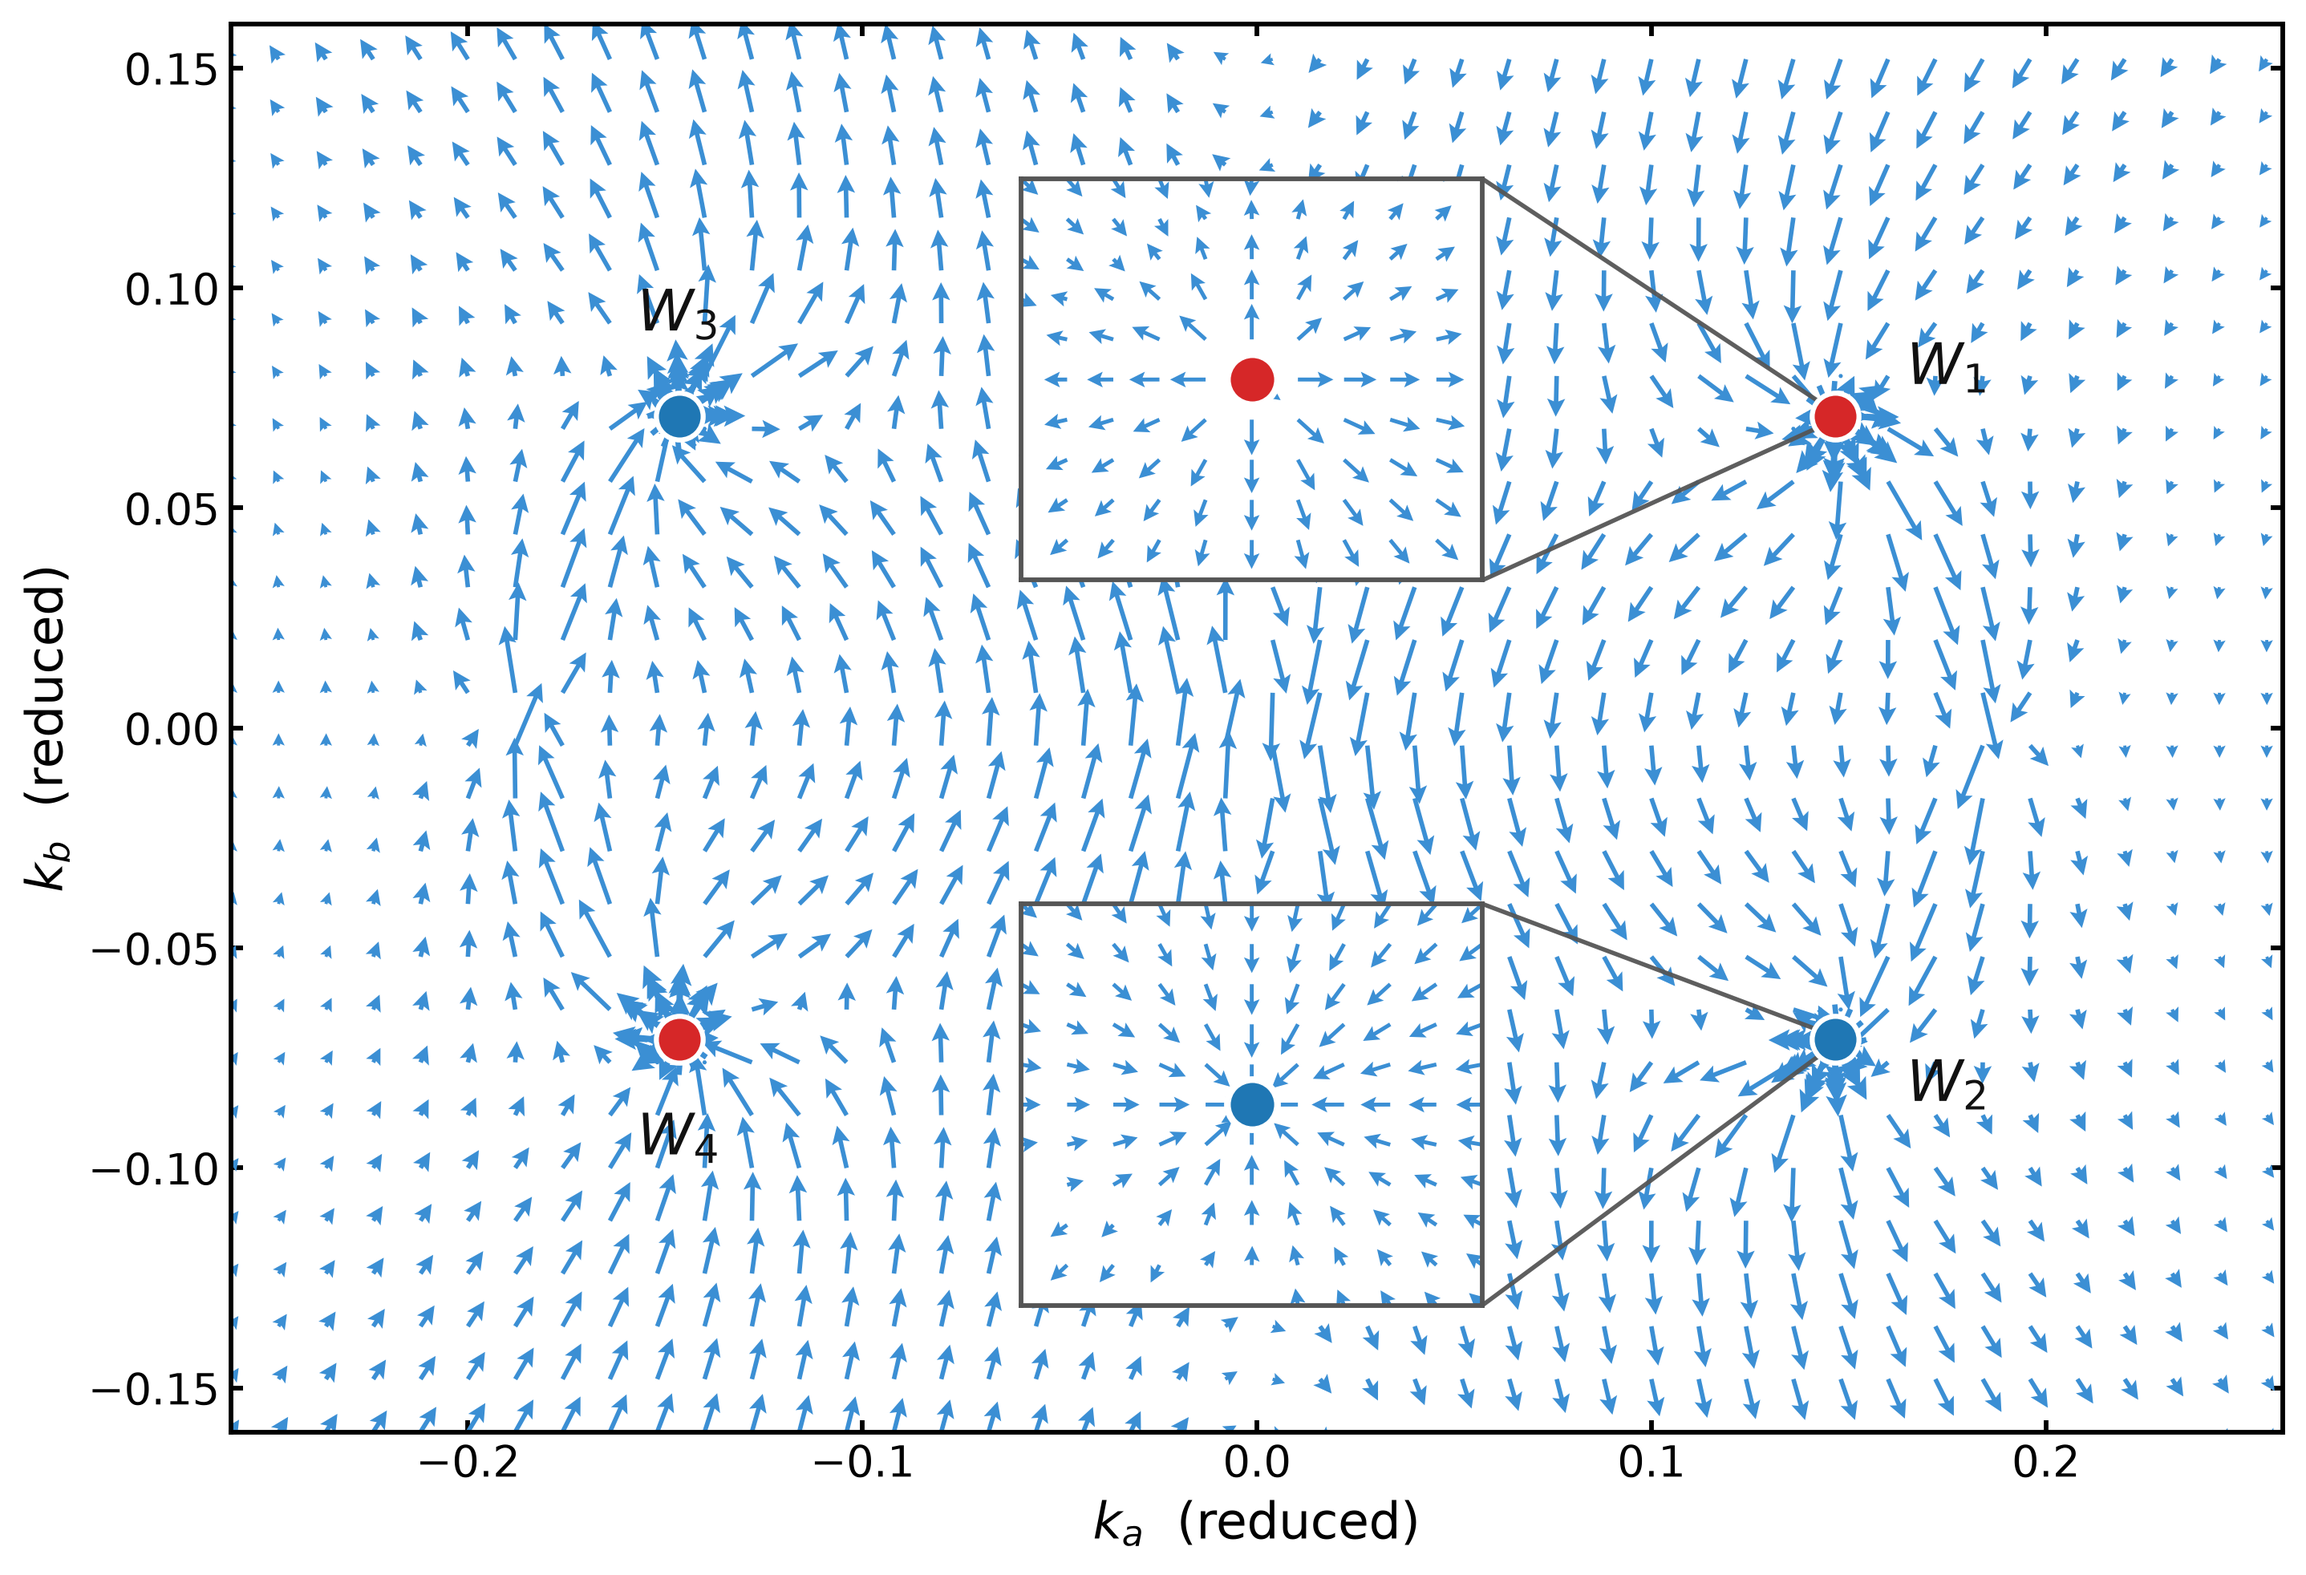
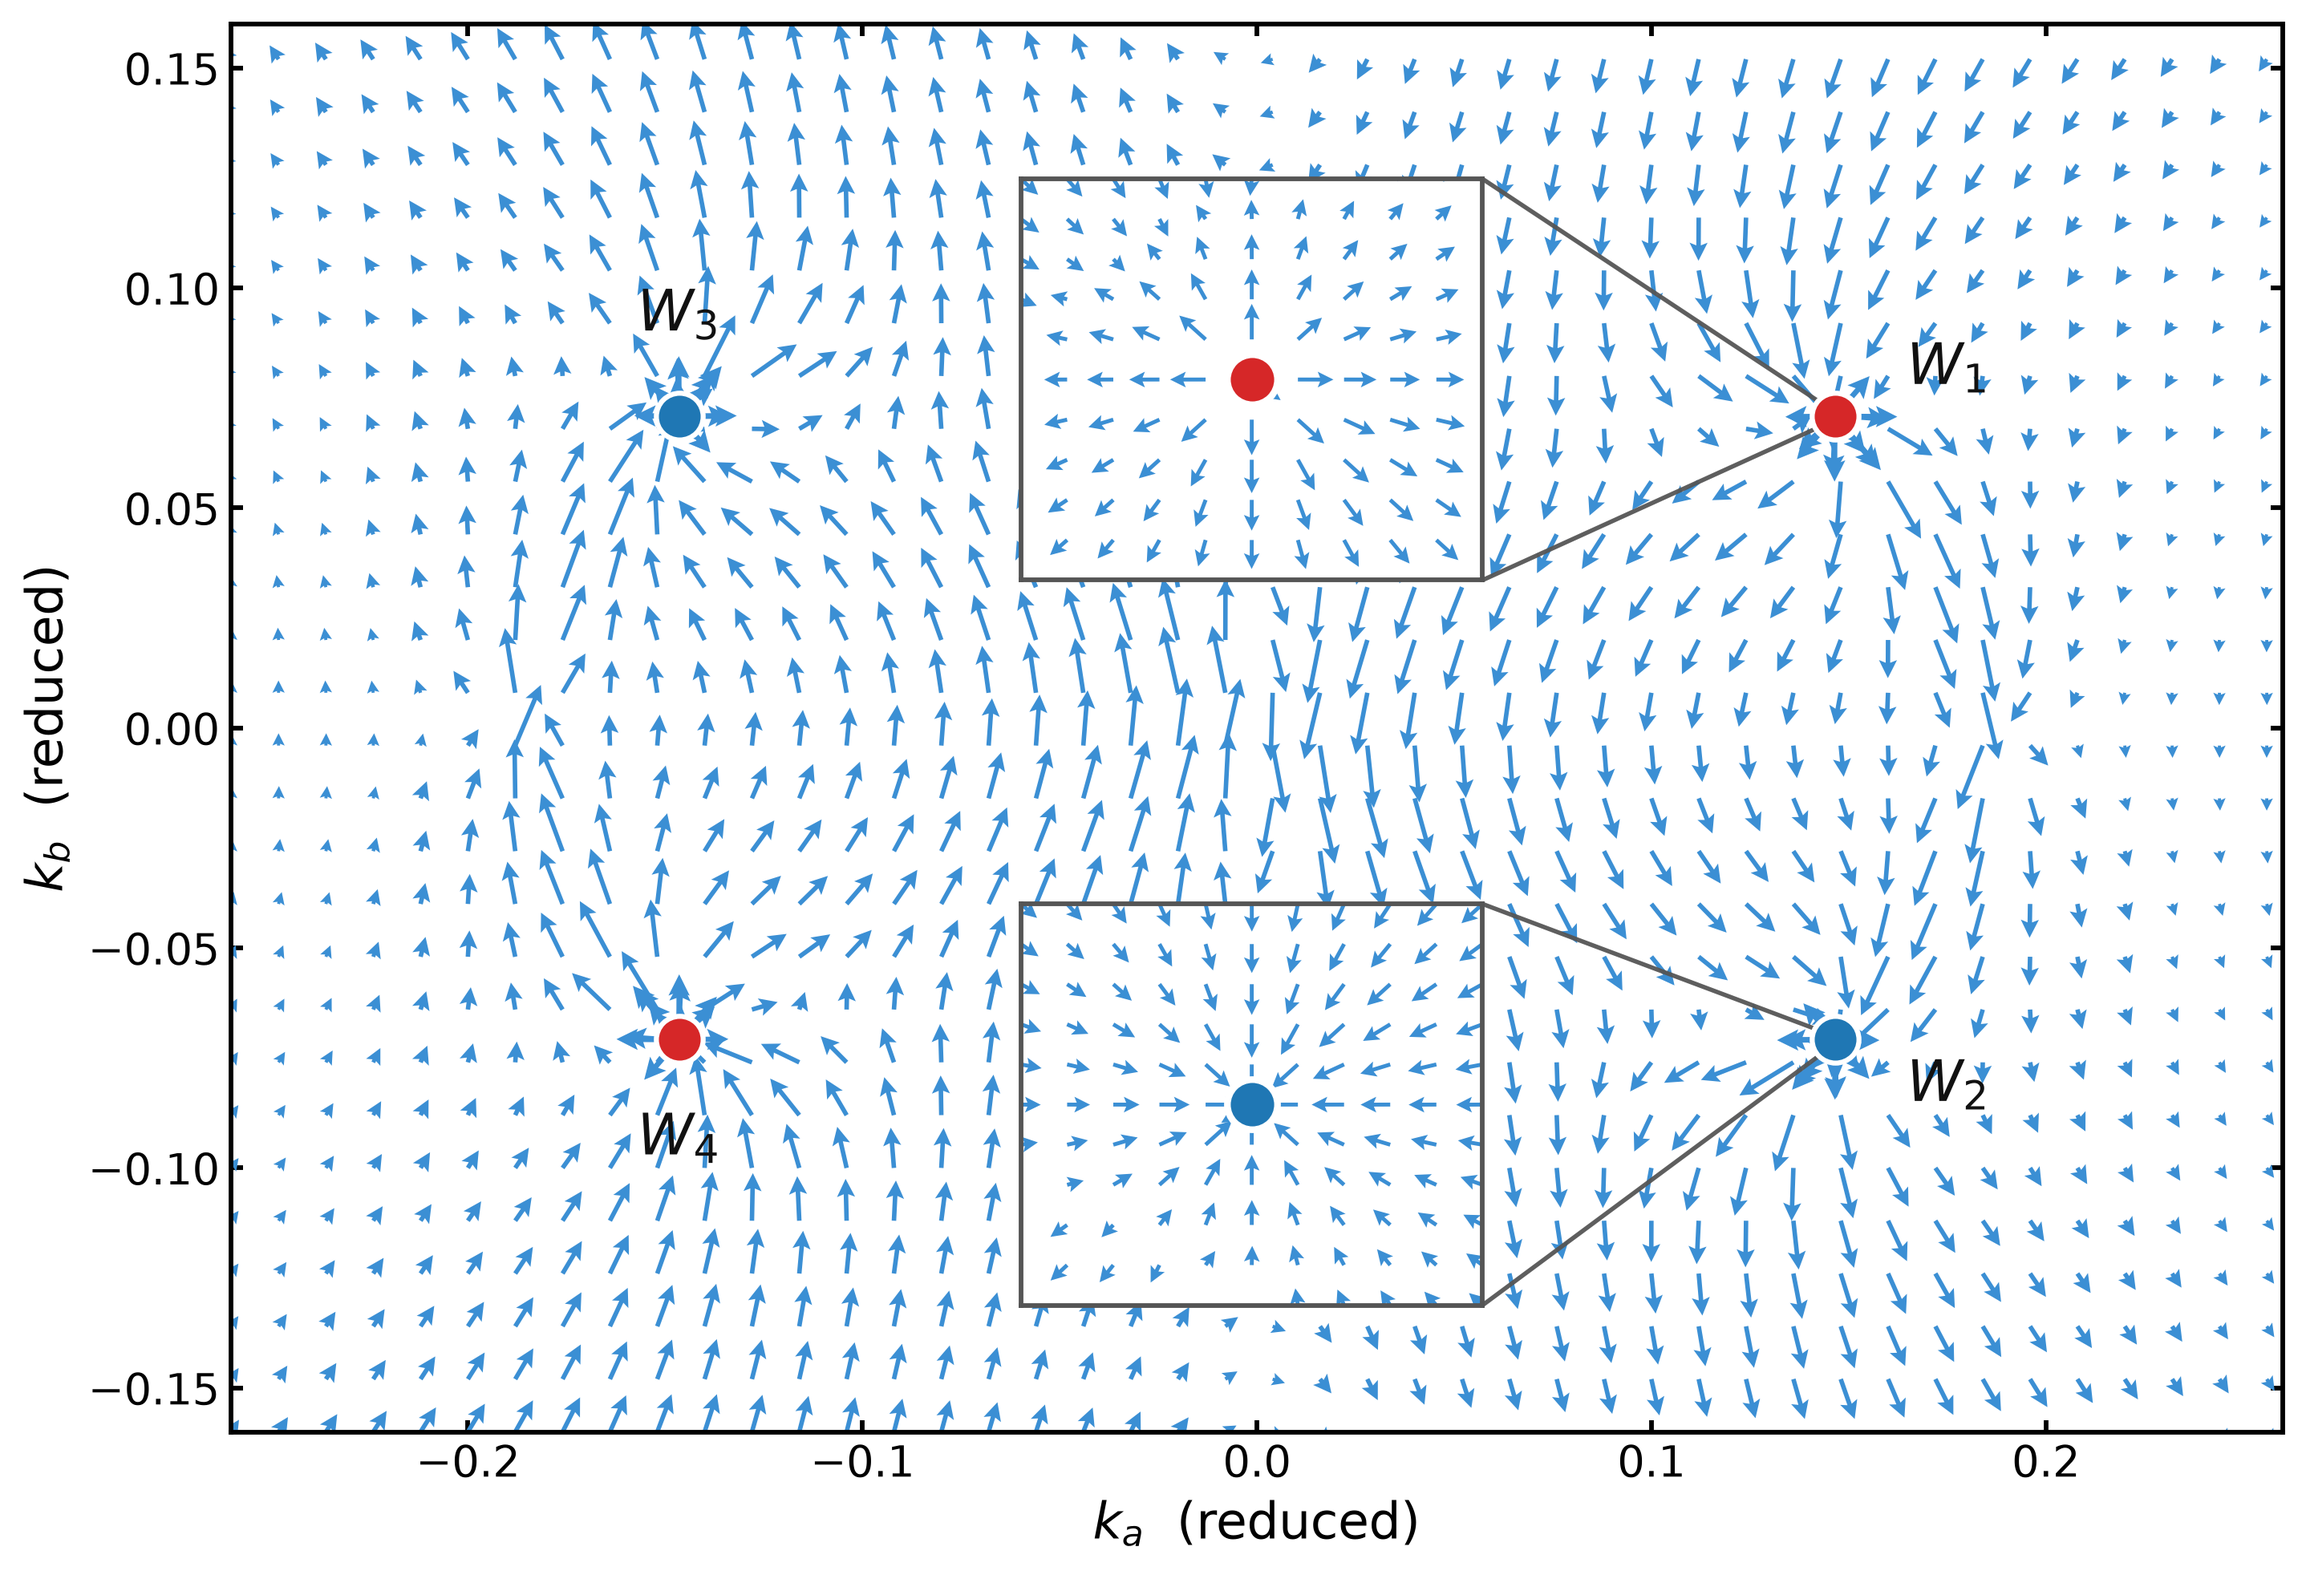
fig9: 노드 링을 1/3 로 솎음 (4반경x12각 -> 2반경x8각)
- RADII (0.0008,0.0019,0.0042,0.0080) -> (0.0006, 0.0035), NANG 12 -> 8
  노드당 48 -> 16 개.  반경도 벌려 극에 덜 몰리게 했다.
- 격자 마스크 반경 0.011 -> 0.006 (링이 줄어든 만큼 격자를 더 남긴다)

측정 기록: 링별 방사형 정도 (W1, <cos>)
  r=0.0008 -> -0.50   r=0.0019 -> -0.17   r=0.0042 -> -0.16   r=0.0080 -> -0.10
|cos|>0.9 비율은 모든 반경에서 ~1.00 이다.  즉 화살표는 어디서나 방사 방향과
나란하지만 부호가 섞인다.  순수한 monopole (전부 같은 부호) 은 r <= 0.0004
에서만이고, 그건 그림 축척에서 1~2 픽셀이다.  극 근처 밀집은 그림 설정이
아니라 물리적 사실이다.

Claude-Session: https://claude.ai/code/session_01QhAUpBYpemnn6yKhi2Mgwn

diff --git a/scripts/figs/fig9_berry_field.py b/scripts/figs/fig9_berry_field.py
@@ -106,8 +106,8 @@ class Berry:
 
 
 RINGS = 'figs/berry_rings_pp.npz'
-RADII = (0.0008, 0.0019, 0.0042, 0.0080)      # reduced
-NANG = 12
+RADII = (0.0006, 0.0035)                      # reduced
+NANG = 8
 
 CACHE = 'figs/berry_plane_pp.npz'
 
@@ -222,7 +222,7 @@ A, B = np.meshgrid(ka[::st], kb[::st], indexing='ij')
 U, V = Oa[::st, ::st].copy(), Ob[::st, ::st].copy()
 near = np.zeros(A.shape, bool)                 # 링이 덮는 자리는 격자를 뺀다
 for a0, b0, _ in NODES:
-    near |= np.hypot(A - a0, B - b0) < 0.011
+    near |= np.hypot(A - a0, B - b0) < 0.006
 U[near] = 0.0; V[near] = 0.0
 uquiver(ax, A, B, U, V, scale=30, width=0.0022, zorder=2)
 uquiver(ax, rP[:, 0], rP[:, 1], rO[:, 0].copy(), rO[:, 1].copy(),
